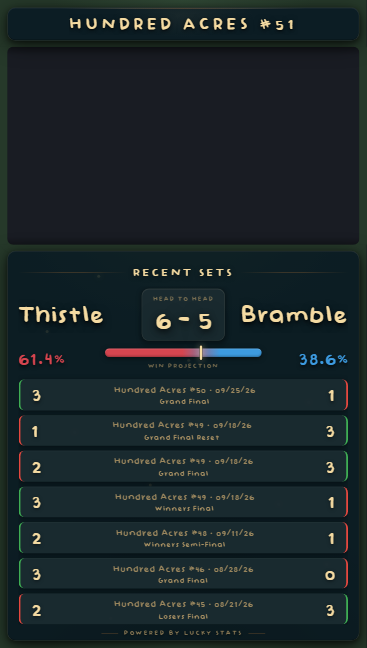
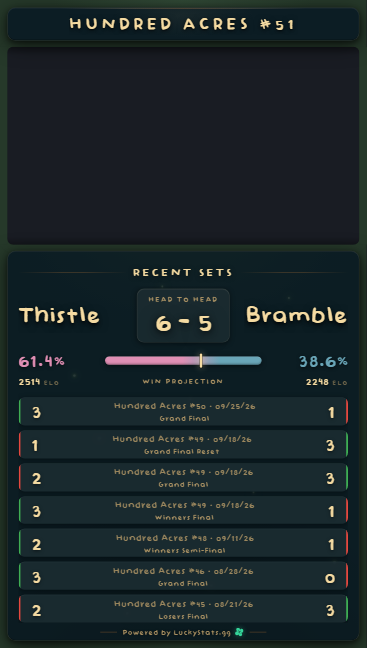
Overlays: fixes from a design review
- Highlights: the title's shimmer copy no longer inherits the word's
  text-shadow, which dulled the cream title to a smudged tan all break.
- Side panel: every cqh font size has a px size before it, so a Chromium
  103 browser (OBS 30) gets sensible sizes rather than 16px everywhere.
- Bracket: the live set glows on every view (Overview keeps its stronger
  glow); TBD and "Winner of" rows readable (5.6:1 Hundred Acres, 4.5:1
  Salty Suite); the GF reset card is opaque with a dashed outline.
- Head-to-head: the win projection is wildflower pink vs lake blue in
  Hundred Acres, never red or green, which the set pills use for a loss
  and a win. Its caption is 13px at full strength.
- Stats popup: "Fewer is better" is 15px at about 5:1.
- CLAUDE.md: the stream PC runs OBS 31+, but the overlays and dock still
  build for Chromium 103 with fallbacks.
- .impeccable/config.json: the design hook ignores gradient-text in
  highlights.css (the shimmer is a moving highlight over solid text).

diff --git a/overlays/side-panel/side-panel.css b/overlays/side-panel/side-panel.css
@@ -388,6 +388,10 @@ body {
   box-shadow:
     0 2px 8px  rgba(0,0,0,0.40),
     inset 0 1px 0 rgba(255,255,255,0.05);
+  /* Text inside sizes to the pill's height (cqh). Every cqh size has a px
+     size on the line before it — what the clamp gives at a 100px pill — for
+     a browser without container units: OBS before 31 (Chromium 103) would
+     otherwise drop the line and fall back to 16px. */
   container-type: size;
 }
 
@@ -496,11 +500,10 @@ body {
 
 .h2h-subtitle {
   font-family:    var(--font);
-  font-size:      11px;
-  letter-spacing: 0.22em;
+  font-size:      13px;
+  letter-spacing: 0.2em;
   text-transform: uppercase;
   color:          var(--darkened-text);
-  opacity:        0.65;
   text-align:     center;
   margin-top:     2px;
 }
@@ -528,6 +531,7 @@ body {
 /* Secondary line inside a pill (tournament, date, round) */
 .pill-line-2 {
   font-family:    var(--font);
+  font-size:      11px;
   font-size:      clamp(10px, 11cqh, 13px);
   color:          var(--darkened-text);
   letter-spacing: 0.05em;
@@ -803,6 +807,7 @@ body {
   text-overflow: ellipsis;
   white-space:   nowrap;
   font-family:   var(--font);
+  font-size:     22px;
   font-size:     clamp(14px, 22cqh, 26px);
   color:         var(--text-color);
 }
@@ -811,6 +816,7 @@ body {
 /* Placement text (e.g. "17th/128") */
 .pill-placement {
   font-family:    var(--font);
+  font-size:      22px;
   font-size:      clamp(14px, 22cqh, 26px);
   color:          var(--text-color);
   letter-spacing: 0.06em;
@@ -839,6 +845,7 @@ body {
 
 /* ── Player card — recent results list overrides ─────────── */
 .history-list .pill-name {
+  font-size:      30px;
   font-size:      clamp(18px, 30cqh, 38px);
   letter-spacing: 0.03em;
   text-shadow:    0 1px 4px rgba(0,0,0,0.6);
@@ -848,18 +855,21 @@ body {
 .run-list .pill-name {
   flex:           1;
   text-align:     left;
+  font-size:      26px;
   font-size:      clamp(24px, 26cqh, 34px);
   letter-spacing: 0.03em;
   text-shadow:    0 1px 6px rgba(0,0,0,0.7);
 }
 
 .history-list .pill-placement {
+  font-size:      36px;
   font-size:      clamp(24px, 36cqh, 44px);
   letter-spacing: 0.08em;
 }
 
 .run-list .pill-round {
   flex:           1.5;
+  font-size:      17px;
   font-size:      clamp(13px, 17cqh, 22px);
   letter-spacing: 0.03em;
   text-align:     center;
@@ -878,6 +888,7 @@ body {
 .run-list .pill-run-score {
   flex:        1;
   text-align:  right;
+  font-size:   26px;
   font-size:   clamp(24px, 26cqh, 34px);
   text-shadow: 0 1px 6px rgba(0,0,0,0.7);
 }
@@ -891,6 +902,7 @@ body {
 
 /* Scores fill the pill height — large and bold */
 #panel-recent-sets .pill-score-val {
+  font-size:   52px;
   font-size:   clamp(36px, 52cqh, 70px);
   line-height: 1;
   text-shadow: 0 2px 6px rgba(0,0,0,0.6);
@@ -907,6 +919,7 @@ body {
 #panel-recent-sets .pill-line-2 {
   text-align: center;
   width:      100%;
+  font-size:  22px;
   font-size:  clamp(16px, 22cqh, 28px);
 }
 
@@ -969,9 +982,9 @@ body {
 }
 
 #panel-completed-sets .panel-header { padding-bottom: 10px; }
-#panel-completed-sets .pill-line-2  { font-size: clamp(13px, 16cqh, 20px); }
-#panel-completed-sets .set-score   { font-size: clamp(26px, 36cqh, 48px); }
-#panel-completed-sets .pill-name   { font-size: clamp(24px, 36cqh, 48px); }
+#panel-completed-sets .pill-line-2  { font-size: 16px; font-size: clamp(13px, 16cqh, 20px); }
+#panel-completed-sets .set-score   { font-size: 36px; font-size: clamp(26px, 36cqh, 48px); }
+#panel-completed-sets .pill-name   { font-size: 36px; font-size: clamp(24px, 36cqh, 48px); }
 
 /* ── List containers (hold dynamically generated pills) ──── */
 /* Each list is a flex column that stretches to fill remaining

diff --git a/overlays/bracket/bracket.css b/overlays/bracket/bracket.css
@@ -221,9 +221,19 @@ body.no-animate .page-dots b.fill { animation: none; }
   box-shadow: var(--shadow-raised);
   overflow: hidden;
 }
-.card.live  { border-color: rgba(var(--trim-rgb, var(--text-color-rgb)), 0.55); }
-/* The reset only happens if the losers-side player takes GF 1. */
-.card.maybe { opacity: 0.5; border-style: dashed; box-shadow: none; }
+/* The set being played glows on every view, so a viewer can find the action
+   on any page; Overview's own glow (below) is stronger, for a board whose
+   names are too small to read. */
+.card.live {
+  border-color: var(--trim-color, var(--text-color));
+  box-shadow: var(--shadow-raised),
+              0 0 0 2px rgba(var(--trim-rgb, var(--text-color-rgb)), 0.6),
+              0 0 24px 4px rgba(var(--trim-rgb, var(--text-color-rgb)), 0.3);
+}
+/* The reset only happens if the losers-side player takes GF 1: a dashed,
+   flat card. Not faded — a translucent card lets the stage art through and
+   takes its "TBD" below legible. */
+.card.maybe { border-style: dashed; border-color: rgba(var(--text-color-rgb), 0.32); box-shadow: none; }
 
 .row {
   position: relative;
@@ -353,7 +363,9 @@ body.no-animate .page-dots b.fill { animation: none; }
 .row.empty .name {
   font-size: 0.62em;
   letter-spacing: 0.08em;
-  color: rgba(var(--text-color-rgb), 0.38);
+  /* Dimmer than a name, still readable: 0.62 is about 4.5:1 on both packs'
+     cards (Hundred Acres 5.6:1, Salty Suite 4.5:1). */
+  color: rgba(var(--text-color-rgb), 0.62);
   text-shadow: none;
 }
 

diff --git a/overlays/set-stats/set-stats.css b/overlays/set-stats/set-stats.css
@@ -161,7 +161,9 @@ body { width: 1920px; height: 1080px; overflow: hidden; margin: 0; font-family: 
 /* The field notes' labels share their gap with the handwritten notes. */
 .lr.in .k .lab { font-size: 17px; }
 .lr .s .u { font-size: 0.62em; }
-.lr .k .hint { font-family: var(--ss-label-font); font-weight: 600; font-size: 13px; letter-spacing: 0.14em; text-transform: uppercase; color: rgba(var(--text-color-rgb), 0.35); margin-top: 2px; }
+/* The only line telling a viewer a lower number wins ("Fewer is better"), so
+   it reads at broadcast size: 15px, about 5:1. */
+.lr .k .hint { font-family: var(--ss-label-font); font-weight: 600; font-size: 15px; letter-spacing: 0.12em; text-transform: uppercase; color: rgba(var(--text-color-rgb), 0.6); margin-top: 2px; }
 .cap { padding-bottom: 4px; }
 /* One line each, tracked tight enough for a 70px column; the small column's
    header dimmed like its numbers, so two headers side by side read as two. */

diff --git a/overlays/highlights/highlights.css b/overlays/highlights/highlights.css
@@ -461,13 +461,18 @@ body {
    lamp travelling over a marquee. Gated behind @supports because the
    fallback for a failed background-clip is `color: transparent` over a
    painted rect — the word would vanish behind a bar. The solid
-   gold text above is what actually reads; this only ever adds. */
+   gold text above is what actually reads; this only ever adds.
+   No text-shadow: it would inherit the word's, and with transparent
+   glyphs that shadow is drawn over the word, dulling it to a smudged
+   tan for the whole break. ?animate=false hides this copy, so a
+   frozen screenshot never shows that. */
 @supports ((-webkit-background-clip: text) or (background-clip: text)) {
   .title-word::after {
     content:  attr(data-word);
     position: absolute;
     inset:    0;
     color:    transparent;
+    text-shadow: none;
     -webkit-background-clip: text;
             background-clip: text;
     background-image: linear-gradient(

diff --git a/overlays/themes/hundred-acres/theme.css b/overlays/themes/hundred-acres/theme.css
@@ -83,6 +83,14 @@
   --win-color:       #3fae54;               /* meadow green — a signal, kept bright */
   --loss-color:      #e5483f;
 
+  /* The head-to-head's win-projection bar (and each side's percentage):
+     wildflower pink for the left player, the trail map's lake blue for the
+     right — as bright as each other, so neither side looks favoured, and
+     both clear of the cream marker. Never red or green, which the set pills
+     right under it use for a loss and a win. */
+  --prob-left-color:  #e08fb4;
+  --prob-right-color: #6aa6b8;
+
   /* Background flair — block to show, none to hide; combine freely.
      contours  the trail map's topographic lines, drifting very slowly
      fireflies a few warm points blinking in the dark */

diff --git a/overlays/bracket/bracket.js b/overlays/bracket/bracket.js
@@ -426,7 +426,7 @@
     const left = Math.min(...items.map((i) => i.x));
     const lo = screenX(left);
     for (const { el, x } of items) {
-      const to = getComputedStyle(el).opacity || "1"; // a "maybe" card rests at 0.5
+      const to = getComputedStyle(el).opacity || "1"; // the opacity it rests at
       el.animate([
         { opacity: 0, transform: `translateX(${CARD_IN_X}px)` },
         { opacity: to, transform: "none" },

diff --git a/docs/OVERLAYS.md b/docs/OVERLAYS.md
@@ -22,7 +22,7 @@ Moved out of [CLAUDE.md](../CLAUDE.md) so it loads only when you work on this ar
 
 ## Bracket
 
-- **Bracket** (`/o/bracket[?view=]`) — laid out by `bracket/layout.js` (pure, and loaded by the page, the dock and Node alike: a column per round, each set centred on its feeders, SVG connectors, the winner's path in the accent, losers drop-ins tagged "from W-R2" instead of drawn). **Nothing pans.** One tree on one canvas is mostly empty (cards cover 18–25% of a 51-player board: the busiest round sets the height, the later rounds sit in a triangle of nothing), so a view that doesn't fit at the legibility floor (~22px names, scale 0.79 of the 1824×912 viewport — `layout.VIEWPORT`, pinned to `bracket.css`) is first **pruned** (per side, rounds past the next one with anybody in it go; a view that fits whole, like Top 8, keeps its empty future) and then cut into **pages**: round bands laid out on their own, a too-tall band wrapped **k-up** (split between subtrees, side by side — no connector inside a page is ever cut; only the line back to the previous band goes), short winners and losers bands stacked on one page, fewest pages first. HA #50 (51 entrants) is 4 pages at 0.79–1.0 where it was 8 screens of pan. Three modes, from the store's `bracketShot` (`bracket-director.js`): **tour** (pages in turn, from the action; dots under the title fill over each hold; the title stays the pool, the subtitle the tournament · event), **page** (held until Auto), **board** (the classic connected board, pruned, steered from the dock: moves settle on a column edge / the gap above a card, zoom steps are whole-column fits down to the floor, an **Overview** fits it whole with the live sets glowing; round headers pin to the top edge; no minimap on stream — that's the dock's; a near move glides, a far one crossfades). **Up Next** (`?view=upnext` or the dock's key) is every live or ready set in the event as the bracket's card under a round · pool header and an On Stream / Live / Ready chip, in a grid scaled up to 1.4× when there are few and paged when there are many; no Board. `?view=` pins a source to a view, which then tours its own pages. A switch goes in sequence: the old layer fades out (all but gone half-way), then the new board cascades in left to right — each card and round header settles in from the left on a delay set by its on-screen x (one speed for every board, starting at its leftmost card), and each connector draws along its own path (a `stroke-dashoffset`, from `data-from-x`/`data-to-x` on the path) out of the card it leaves once that card has mostly settled, into the card it joins as that one arrives; nothing blurs (the layers are most of the canvas). A data change redraws in place.
+- **Bracket** (`/o/bracket[?view=]`) — laid out by `bracket/layout.js` (pure, and loaded by the page, the dock and Node alike: a column per round, each set centred on its feeders, SVG connectors, the winner's path in the accent, losers drop-ins tagged "from W-R2" instead of drawn). **Nothing pans.** One tree on one canvas is mostly empty (cards cover 18–25% of a 51-player board: the busiest round sets the height, the later rounds sit in a triangle of nothing), so a view that doesn't fit at the legibility floor (~22px names, scale 0.79 of the 1824×912 viewport — `layout.VIEWPORT`, pinned to `bracket.css`) is first **pruned** (per side, rounds past the next one with anybody in it go; a view that fits whole, like Top 8, keeps its empty future) and then cut into **pages**: round bands laid out on their own, a too-tall band wrapped **k-up** (split between subtrees, side by side — no connector inside a page is ever cut; only the line back to the previous band goes), short winners and losers bands stacked on one page, fewest pages first. HA #50 (51 entrants) is 4 pages at 0.79–1.0 where it was 8 screens of pan. Three modes, from the store's `bracketShot` (`bracket-director.js`): **tour** (pages in turn, from the action; dots under the title fill over each hold; the title stays the pool, the subtitle the tournament · event), **page** (held until Auto), **board** (the classic connected board, pruned, steered from the dock: moves settle on a column edge / the gap above a card, zoom steps are whole-column fits down to the floor, an **Overview** fits it whole with the live sets glowing brighter than the softer glow they get on every other view; round headers pin to the top edge; no minimap on stream — that's the dock's; a near move glides, a far one crossfades). **Up Next** (`?view=upnext` or the dock's key) is every live or ready set in the event as the bracket's card under a round · pool header and an On Stream / Live / Ready chip, in a grid scaled up to 1.4× when there are few and paged when there are many; no Board. `?view=` pins a source to a view, which then tours its own pages. A switch goes in sequence: the old layer fades out (all but gone half-way), then the new board cascades in left to right — each card and round header settles in from the left on a delay set by its on-screen x (one speed for every board, starting at its leftmost card), and each connector draws along its own path (a `stroke-dashoffset`, from `data-from-x`/`data-to-x` on the path) out of the card it leaves once that card has mostly settled, into the card it joins as that one arrives; nothing blurs (the layers are most of the canvas). A data change redraws in place.
 
 ## Highlights
 

diff --git a/CLAUDE.md b/CLAUDE.md
@@ -352,7 +352,7 @@ Slippi character ids (0–25) → `{ codename, display }`; `CSS_ORDER` is Melee'
 - The parser is **persistent per file**: anything added to the poll loop must tolerate a live file and must not assume a fresh parse each tick.
 - **start.gg:** a response over 1000 objects is refused *whole* — split and retry, never "no results". `Player.sets(filters: …)` returns zero sets with any filter at all; fetch unfiltered and filter locally. `event.sets(filters: { playerIds: [a, b] })` is **OR**. `user.events` is not a player's history. The API returns `null` for a short slug — only the web redirect resolves it, and the link is **hyphenated** (`start.gg/100acres` is a hard 404).
 - **A browser source whose page failed to load doesn't retry.** Start the app before OBS, or refresh the sources (the dock flags one that didn't load, with a Refresh key). A loaded page survives app restarts (socket.io reconnects and gets `state:full`).
-- **OBS's CEF is Chromium 103.** Check any new CSS feature against it; headless Chrome being newer hides the failure.
+- **Build for Chromium 103, OBS 30's browser.** The stream PC runs OBS 31 or newer (confirmed 2026-11-19), whose browser is newer, but the overlays and the dock still keep to Chromium 103; where they use something newer, it comes with a fallback (the side panel's `cqh` sizes each have a px size before them). Check any new CSS feature against it; headless Chrome being newer hides the failure.
 - **Don't synthesise global keypresses to test the hotkeys** — they also type into whatever window has focus. Press them by hand.
 - **`scripts/` is one level deeper than the app.** `preflight.js` resolves the app at `..` and the repo at `../..`, and requires most of what it checks **lazily** (it has to run before `npm install`). `tests/preflight.test.js` runs it offline so a moved module fails a test rather than a pre-event check.
 - `slippi_game_start` / `slippi_clip_saved` keep a `teamNum` field (`side + 1`) — the payload's long-standing name for the side, not a TSH team.
